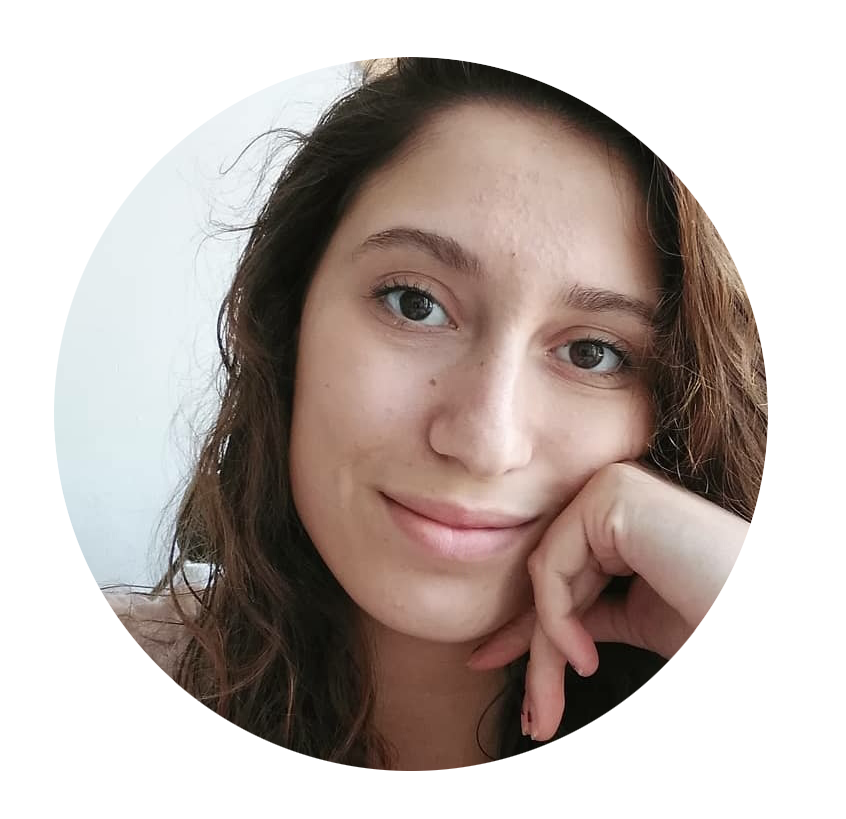
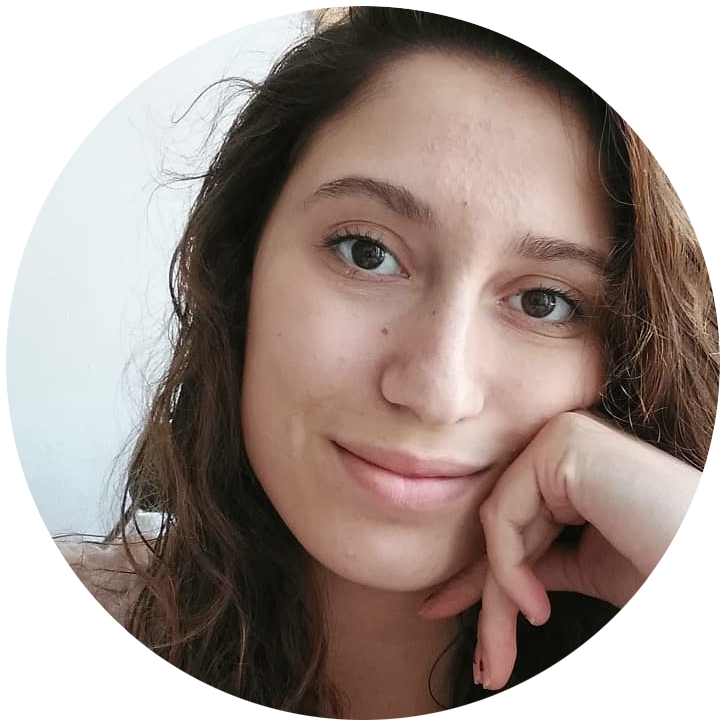
nosotros ajustes de alineacion

diff --git a/css/main.css b/css/main.css
@@ -110,6 +110,7 @@ main {
           animation-delay: 0s;
           animation-fill-mode: forwards; }
         main .index-secciones_cards a div {
+          box-shadow: 3px 8px 7px -1px rgba(0, 0, 0, 0.23);
           -webkit-box-shadow: 3px 8px 7px -1px rgba(0, 0, 0, 0.23);
           border-radius: 0.4rem;
           overflow: hidden;
@@ -400,8 +401,6 @@ footer {
         font-weight: 800;
         text-align: center;
         padding: 7% 0%; }
-      .nosotros .integrantes_div_integrante img {
-        height: 41vh; }
       .nosotros .integrantes_div_integrante p {
         padding: 1% 5%; }
 

diff --git a/scss/components/_index.scss b/scss/components/_index.scss
@@ -127,6 +127,7 @@ main {
                     animation-fill-mode:forwards
                 }
                 div {
+                    box-shadow: 3px 8px 7px -1px rgba(0, 0, 0, 0.23);
                     -webkit-box-shadow: 3px 8px 7px -1px rgba(0, 0, 0, 0.23);
                     border-radius: 0.4rem;
                     overflow: hidden;

diff --git a/scss/components/nosotros.scss b/scss/components/nosotros.scss
@@ -98,7 +98,6 @@
                     padding: 7% 0%;
                 }
                 img {
-                    height: 41vh;
                 }
                 p {
                     padding: 1% 5%;
